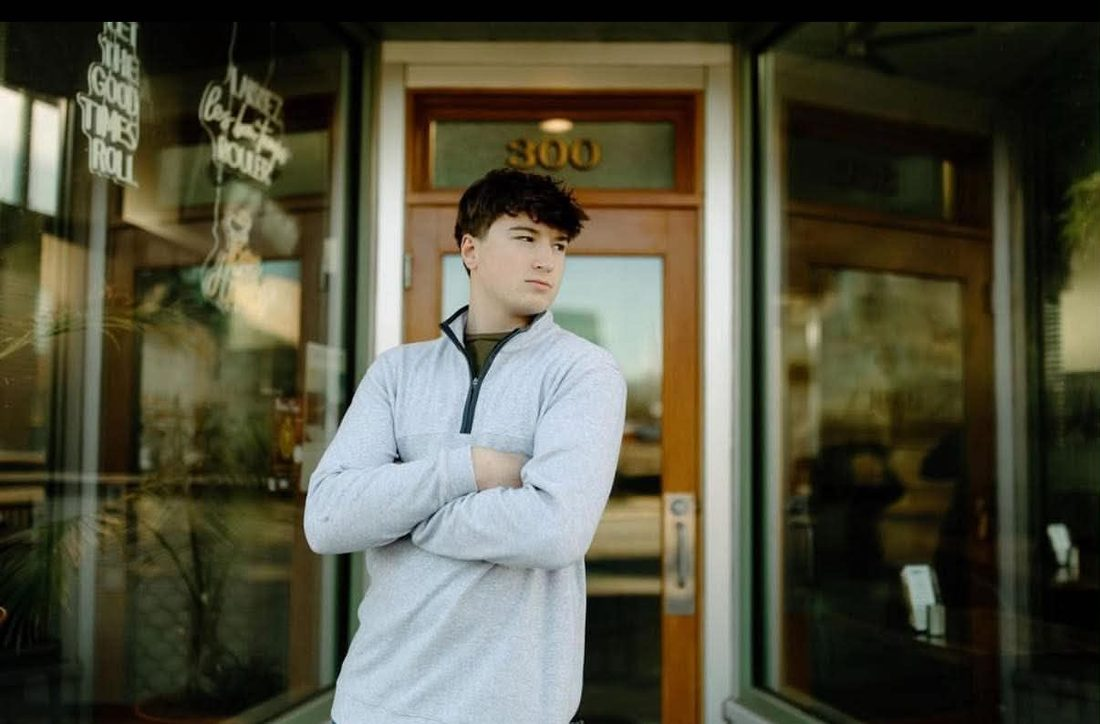
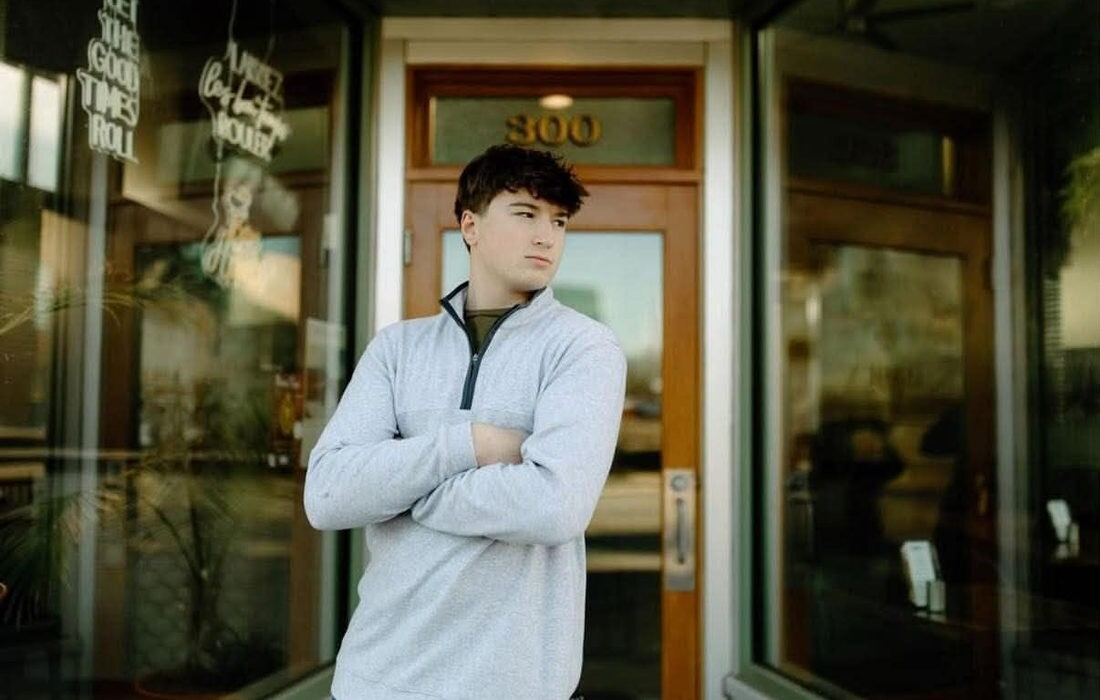
Fix squished owner photo on mobile
The About page photo was a wide shot forced to its full 724px height
at phone width. Use a portrait crop centered on Eli, keep its natural
proportions, and trim the black bar off the top of the original.

Claude-Session: https://claude.ai/code/session_01N7P5BVw8Ku7UCKJaGvMxYd

diff --git a/about.html b/about.html
@@ -156,7 +156,7 @@
   <section class="section">
     <div class="container narrow">
       <figure class="owner-photo owner-photo-inline rv rv-left">
-        <img src="/assets/eli-owner.jpg" alt="Eli, owner of ET&rsquo;s Lawn Care &amp; More" width="1100" height="724" decoding="async" />
+        <img src="/assets/eli-owner-portrait.jpg" alt="Eli, owner of ET&rsquo;s Lawn Care &amp; More" width="560" height="700" decoding="async" />
         <figcaption>Eli &mdash; Owner, ET&rsquo;s Lawn Care &amp; More</figcaption>
       </figure>
       <p class="eyebrow">Meet the owner</p>

diff --git a/build/generate.js b/build/generate.js
@@ -1020,7 +1020,7 @@ function renderAboutPage() {
   <section class="section">
     <div class="container narrow">
       <figure class="owner-photo owner-photo-inline">
-        <img src="${base}assets/eli-owner.jpg" alt="${OWNER}, owner of ${SITE_NAME}" />
+        <img src="${base}assets/eli-owner-portrait.jpg" alt="${OWNER}, owner of ${SITE_NAME}" />
         <figcaption>${OWNER} &mdash; Owner, ${SITE_NAME}</figcaption>
       </figure>
       <p class="eyebrow">Meet the owner</p>

diff --git a/css/styles.css b/css/styles.css
@@ -981,9 +981,12 @@ fieldset.addons legend { padding: 0 6px; }
 .trust-icon { font-size: 1.3rem; }
 
 /* ===== Owner photo (About) ===== */
-.owner-photo { margin: 0 0 28px; }
+.owner-photo { margin: 0 auto 28px; max-width: 340px; }
 .owner-photo img {
   width: 100%;
+  height: auto;
+  aspect-ratio: 4 / 5;
+  object-fit: cover;
   border-radius: var(--radius);
   border: 1px solid var(--line);
   border-top: 3px solid var(--lime);
